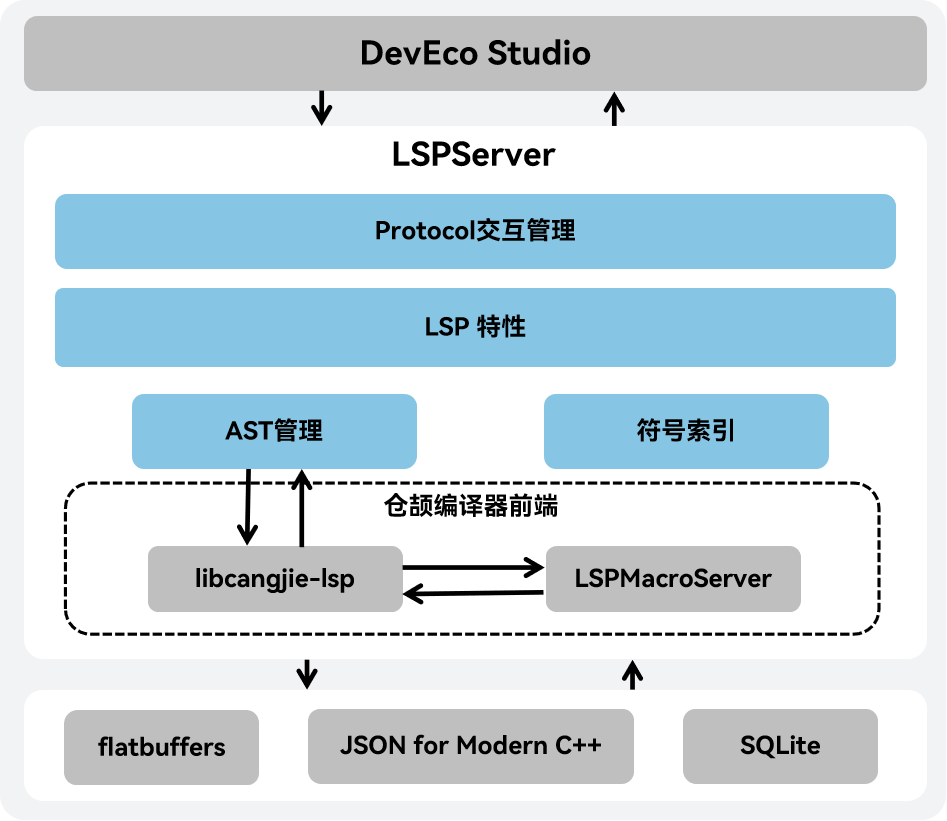
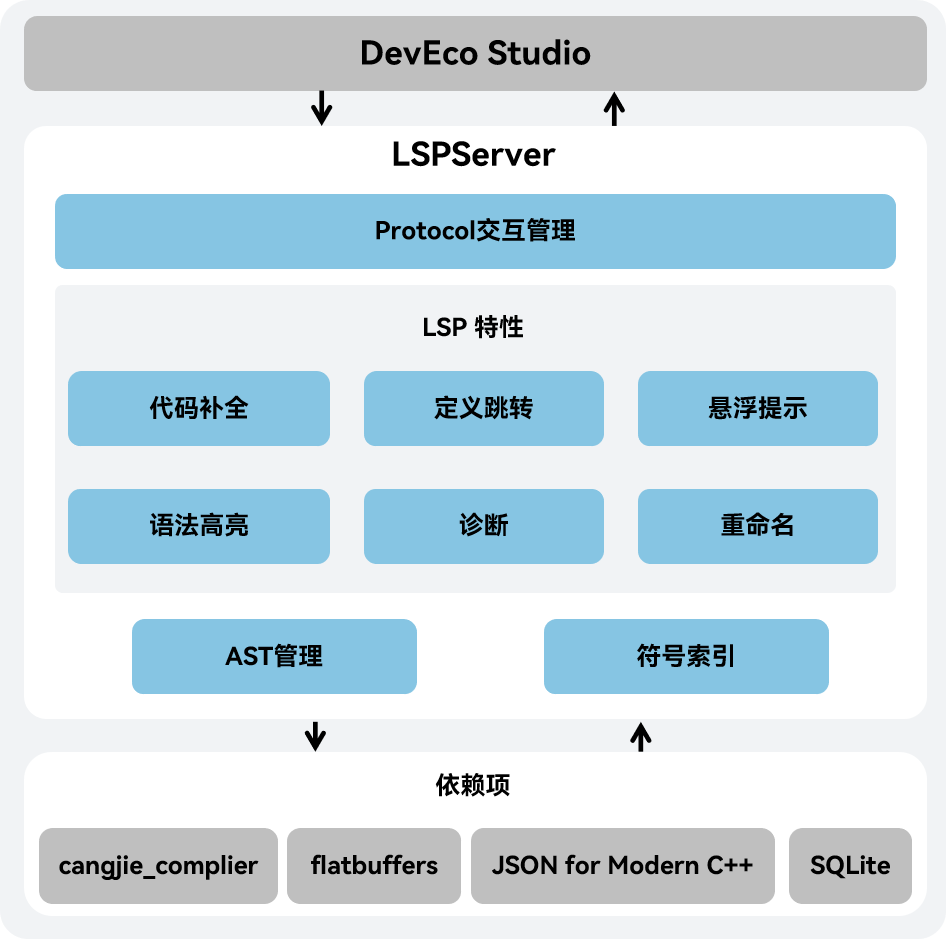
fix: change lsp doc

diff --git a/cangjie-language-server/doc/developer_guide.md b/cangjie-language-server/doc/developer_guide.md
@@ -12,13 +12,19 @@ The system architecture diagram is as follows:
 
 As shown in the architecture diagram:
 
-Protocol Interaction Management: Responsible for basic communication with the LSP protocol and message handling.
+Protocol Interaction Management: Implementing communication with the DevEco Studio client using the LSP protocol, including message encapsulation, message forwarding, and message processing.
 
 LSP Features: Implements language server features such as code completion, go to definition, and semantic token highlight.
+- CodeCompletion: Provides real-time Cangjie code suggestions and completion as developers write code, based on the input content.
+- Definition: Allows developers to jump to the definition of a specified Cangjie code symbol, such as a class name, function name and variable name.
+- Hover: Displays detailed information about the code when the developer hovers the mouse, such as the definition type and related comments
+- SemanticHighlight: Applies language server syntax highlighting to Cangjie code, using different colors to distinguish various elements like class names, function names, and variables.
+- Diagnostic: Errors or warnings are highlighted in the relevant code segments when the code violates Cangjie syntax or semantic rules.
+- Rename: Provides a code renaming capability that automatically updates both the definition and all references of the symbol.
 
 AST Management: Implements the construction and management of the AST.
 
-Symbol Index: Handles the generation and modification of symbol indexes and offers search functionality.
+Symbol Index: Implements the generation and modification of symbol indexes and offers search functionality.
 
 ## Directory Structure
 

diff --git a/cangjie-language-server/doc/developer_guide_zh.md b/cangjie-language-server/doc/developer_guide_zh.md
@@ -12,13 +12,19 @@
 
 如架构图所示：
 
-Protocol交互管理：负责和LSP协议的基本通信与消息处理
+Protocol交互管理：使用LSP协议实现与DevEco Studio客户端的通信，包括消息封装、消息转发、消息处理
 
 LSP特性：实现了代码补全，定义跳转，语法高亮等语言服务功能
+- 代码补全：在开发者编写代码时，根据输入的代码内容提供实时仓颉代码联想和补全能力
+- 定义跳转：根据开发者指定的仓颉代码符号跳转到代码定义的位置，代码符号可以是类名、函数名、变量名等
+- 悬浮提示：在开发者鼠标悬停时显示代码的详细信息，比如代码的定义类型，相关的注释等
+- 语法高亮：根据仓颉语言的变量类型提供服务端语法高亮，可以对类名，函数名，变量名等显示不同颜色
+- 代码诊断：当出现不符合仓颉语法或语义规则的代码时，会在相关代码段中给出错误或告警信息
+- 重命名：提供代码的重命名功能，可以自动修改代码的定义和使用处的内容
 
 AST管理：实现抽象语法树（AST）的构建和管理
 
-符号索引：提供符号索引的生成和修改，提供搜索索引的功能
+符号索引：实现符号索引的生成和修改，提供搜索索引的功能
 
 ## 目录结构
    
